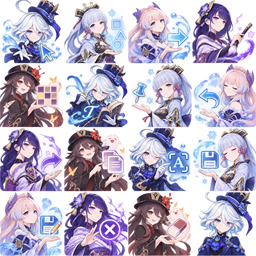
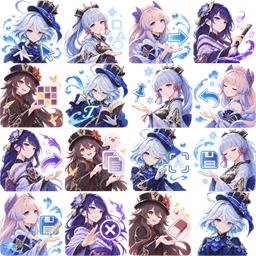
release: publish Snap-Lite v1.7.8

diff --git a/src/ui_theme.h b/src/ui_theme.h
@@ -19,6 +19,8 @@ enum class ThemeId : std::uint32_t {
     ZenlessZoneZero,
     HonkaiImpact3,
     WutheringWaves,
+    HonkaiStarRail,
+    YuruCamp,
 };
 
 struct ThemePalette {
@@ -41,7 +43,7 @@ struct ThemePalette {
     COLORREF dangerHover;
 };
 
-inline constexpr std::array<ThemePalette, 8> kThemePalettes{{
+inline constexpr std::array<ThemePalette, 10> kThemePalettes{{
     {
         L"轻音少女",
         RGB(255, 248, 250), RGB(255, 250, 248), RGB(255, 255, 255),
@@ -112,6 +114,24 @@ inline constexpr std::array<ThemePalette, 8> kThemePalettes{{
         RGB(43, 100, 108), RGB(32, 83, 90), RGB(38, 52, 55),
         RGB(111, 132, 135), RGB(78, 104, 108), RGB(225, 239, 238),
         RGB(207, 229, 227), RGB(207, 223, 222), RGB(201, 75, 83),
+        RGB(255, 237, 239),
+    },
+    {
+        L"崩坏：星穹铁道",
+        RGB(244, 246, 252), RGB(251, 250, 248), RGB(255, 255, 255),
+        RGB(211, 218, 235), RGB(123, 140, 195), RGB(91, 108, 166),
+        RGB(70, 85, 136), RGB(54, 67, 116), RGB(43, 47, 62),
+        RGB(124, 130, 149), RGB(91, 98, 119), RGB(231, 236, 248),
+        RGB(213, 221, 240), RGB(213, 220, 234), RGB(201, 75, 83),
+        RGB(255, 237, 239),
+    },
+    {
+        L"摇曳露营",
+        RGB(245, 249, 242), RGB(255, 251, 244), RGB(255, 255, 255),
+        RGB(218, 228, 211), RGB(132, 166, 119), RGB(99, 137, 90),
+        RGB(77, 113, 70), RGB(61, 94, 55), RGB(49, 57, 47),
+        RGB(121, 133, 112), RGB(91, 103, 83), RGB(234, 243, 226),
+        RGB(220, 234, 211), RGB(217, 228, 210), RGB(201, 75, 83),
         RGB(255, 237, 239),
     },
 }};

diff --git a/src/toolbar_icon_render_gdi_anime.h b/src/toolbar_icon_render_gdi_anime.h
@@ -260,6 +260,8 @@ inline FunctionSheetState& FunctionSheet() {
     case snaplite::ui::ThemeId::ZenlessZoneZero: resourceId = IDR_THEME_ZZZ_TOOLBAR; break;
     case snaplite::ui::ThemeId::HonkaiImpact3: resourceId = IDR_THEME_HONKAI3_TOOLBAR; break;
     case snaplite::ui::ThemeId::WutheringWaves: resourceId = IDR_THEME_WUTHERING_TOOLBAR; break;
+    case snaplite::ui::ThemeId::HonkaiStarRail: resourceId = IDR_THEME_STAR_RAIL_TOOLBAR; break;
+    case snaplite::ui::ThemeId::YuruCamp: resourceId = IDR_THEME_YURU_CAMP_TOOLBAR; break;
     default: break;
     }
 

diff --git a/tests/test_build_scripts.py b/tests/test_build_scripts.py
@@ -4571,7 +4571,7 @@ class ReleaseVersionTest(unittest.TestCase):
         project(...) 在文件第 2 行。
         """
         cmake = (REPO_ROOT / "CMakeLists.txt").read_text(encoding="utf-8")
-        self.assertEqual(self.resolver.parse_base_version(cmake), "1.7.7")
+        self.assertEqual(self.resolver.parse_base_version(cmake), "1.7.8")
 
     def test_version_comparison_uses_components_not_prefixes(self) -> None:
         """版本比较必须按分量，不能只做字符串前缀比较。

diff --git a/resources/resource.h b/resources/resource.h
@@ -9,3 +9,5 @@
 #define IDR_THEME_ZZZ_TOOLBAR 107
 #define IDR_THEME_HONKAI3_TOOLBAR 108
 #define IDR_THEME_WUTHERING_TOOLBAR 109
+#define IDR_THEME_STAR_RAIL_TOOLBAR 110
+#define IDR_THEME_YURU_CAMP_TOOLBAR 111

diff --git a/.release/v1.7.8.md b/.release/v1.7.8.md
@@ -1,0 +1,9 @@
+# Snap-Lite v1.7.8
+
+按用户提供的参考素材重绘 UI 主题图集，使各套主题更贴近对应作品的原画风格。
+
+- 重新制作轻音以外的 9 张 4×4 工具图集，保留图格功能和角色分配。
+- 新增崩坏：星穹铁道与摇曳露营主题。
+- 主题选择继续保存在当前用户设置中，轻音少女仍为默认主题。
+
+Windows 11 x64。
